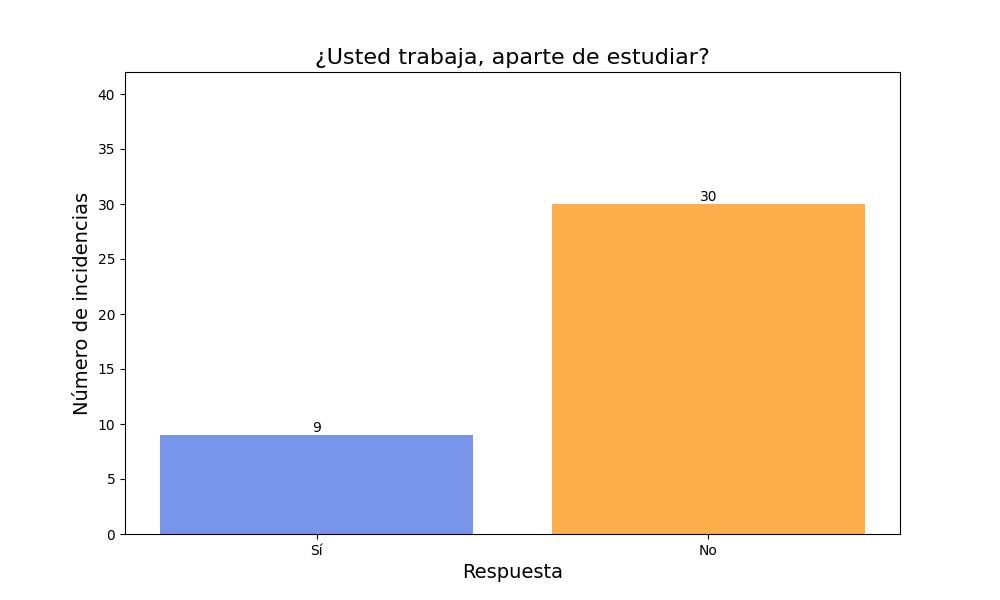
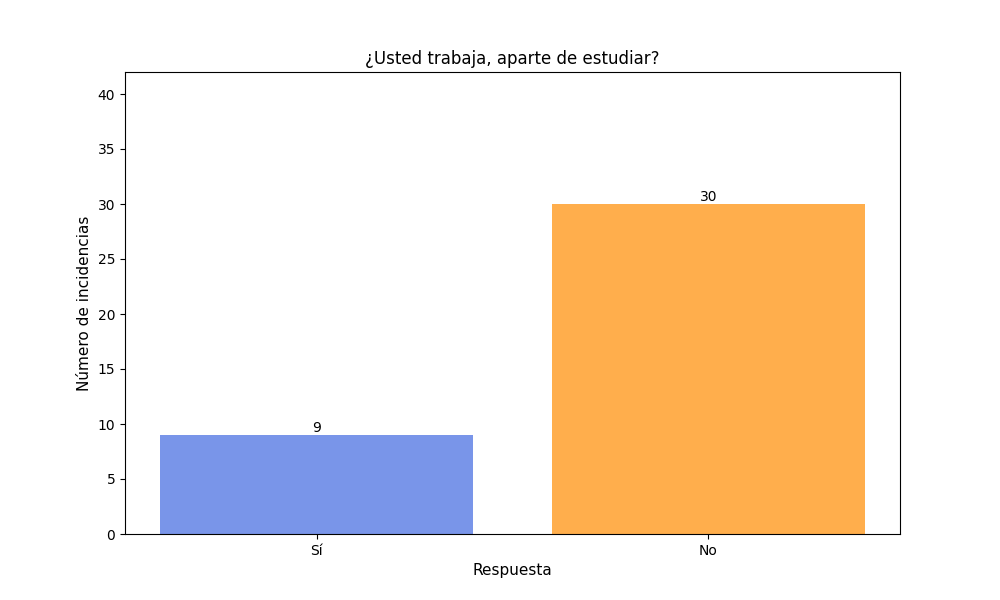
REFACTOR: histogramas para diagnostico preliminar e histogramas correspondientes

Changed region(s): [[0.31, 0.06, 0.713, 0.12], [0.062, 0.33, 0.093, 0.69], [0.465, 0.93, 0.558, 0.96]]

diff --git a/scripts/plots.py b/scripts/plots.py
@@ -5,7 +5,6 @@ import matplotlib.pyplot as plt
 plt.rcParams.update({"figure.facecolor": (1, 1, 1, 0)})
 
 
-# TODO alternativa de despliegue de opciones muy largas como anidado en leyenda
 def histograma(df, columna_csv, opciones):
     colores = ["royalblue", "darkorange", "limegreen", "mediumpurple", "indianred"]
     nombre_archivo = f"histograma_preguntacolumna{columna_csv}"
@@ -28,9 +27,9 @@ def histograma(df, columna_csv, opciones):
     else: 
         bars = axes.bar(conteo.index, conteo.values, alpha=0.7, color=colores)
 
-    axes.set_xlabel("Respuesta", fontsize=14)
-    axes.set_ylabel("Número de incidencias", fontsize=14)
-    axes.set_title(f"{nombre_pregunta[columna_csv-1]}", fontsize=16)
+    axes.set_xlabel("Respuesta", fontsize=11)
+    axes.set_ylabel("Número de incidencias", fontsize=11)
+    axes.set_title(f"{nombre_pregunta[columna_csv-1]}", fontsize=12)
     axes.set_ylim(0, 42) # * Limite de escala
     axes.yaxis.set_major_locator(plt.MaxNLocator(integer=True)) # * Forzar la escala vertical a números enteros
 
@@ -76,16 +75,46 @@ def getHistogramaDatosDemograficos(df_csv):
     histograma(df_csv, 27, opciones_pregunta27)
     print("FIN Histogramas de los Datos Demograficos\n")
 
+# TODO
 def getHistogramaDiagnosticoAprendizajeQuimica(df_csv):
+    # * el orden de preguntas es en relación con el orden provisto en el Google Sheets
+    opciones_pregunta13_1622_24 = ['nunca', 'casi nunca', 'a veces', 'casi siempre', 'siempre']
+    opciones_pregunta15_23 = ['muy malo', 'malo', 'regular', 'bueno', 'muy bueno']
+    opciones_pregunta14 = ['menos de 5', '5 a 6', '7 a 8', '9 a 10', 'más de 10']
+    opciones_pregunta25 = ['nula', 'muy poca', 'baja', 'moderada', 'bastante']
+    opciones_pregunta26 = ['muy malo', 'malo', 'ni bueno ni malo', 'bueno', 'muy bueno']
+
     print("INICIO Histogramas del diagnóstico respecto al aprendizaje de Química")
+    histograma(df_csv, 13, opciones_pregunta13_1622_24)
+    histograma(df_csv, 14, opciones_pregunta14)
+    histograma(df_csv, 15, opciones_pregunta15_23)
+    for idx in range(16, 23):
+        histograma(df_csv, idx, opciones_pregunta13_1622_24)
+    histograma(df_csv, 23, opciones_pregunta15_23)
+    histograma(df_csv, 24, opciones_pregunta13_1622_24)
+    histograma(df_csv, 25, opciones_pregunta25)
+    histograma(df_csv, 26, opciones_pregunta26)
     print("FIN Histogramas del diagnóstico respecto al aprendizaje de Química")
+
+def getDataFrameRespuestasCategoricasNormalizadas(df_csv):
+    # normalizando preguntas con respuestas categoricas a minúsculas
+        # * dichas preguntas son las de las columnas 13 -> 26
+    df_normalizado = df_csv.copy()
+    nombres_columnas = df_normalizado.columns.tolist()
+    nombres_columnas = nombres_columnas[13-1:26]
+
+    for columna in nombres_columnas:
+        df_normalizado[columna] = df_csv[columna].apply(lambda x: x.lower())
+            
+    return df_normalizado
 
 def main():
     CSV_FILE = "../csv/EncuestaPreliminar.csv"
     df_csv = pandas.read_csv(CSV_FILE)
+    df_normalizado = getDataFrameRespuestasCategoricasNormalizadas(df_csv)
 
-    getHistogramaDatosDemograficos(df_csv)
-    getHistogramaDiagnosticoAprendizajeQuimica(df_csv)
+    getHistogramaDatosDemograficos(df_normalizado)
+    getHistogramaDiagnosticoAprendizajeQuimica(df_normalizado)
 
 if __name__ == "__main__":
     main()

diff --git a/scripts/exploration.py b/scripts/exploration.py
@@ -4,7 +4,7 @@ import numpy
 
 def exploration(csv_file):
     df = pandas.read_csv(csv_file)
-    print(df)
+    #print(df)
 
     # * Obtener las dimensiones de los datos (filas x columnas)
     filas, columnas = df.shape
@@ -18,7 +18,7 @@ def exploration(csv_file):
 
     print("Nombres de las columnas:")
     for idx, nombre in enumerate(nombres_columnas):
-        print(f"•{idx+1}: {nombre}")
+        print(f"•{idx}: {nombre}")
 
     # * Prueba de acceso de nombre_columnas por medio de indices
     #print(nombres_columnas[3])
